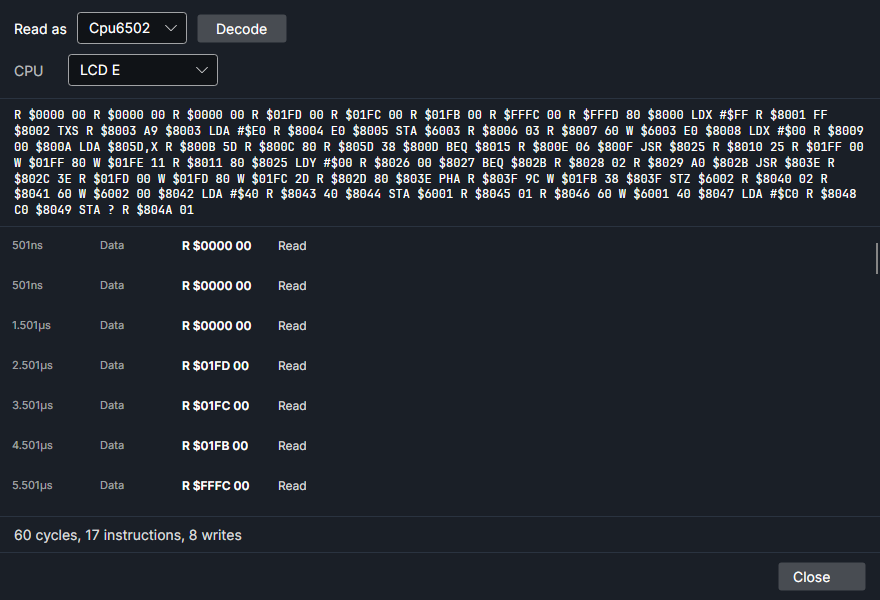
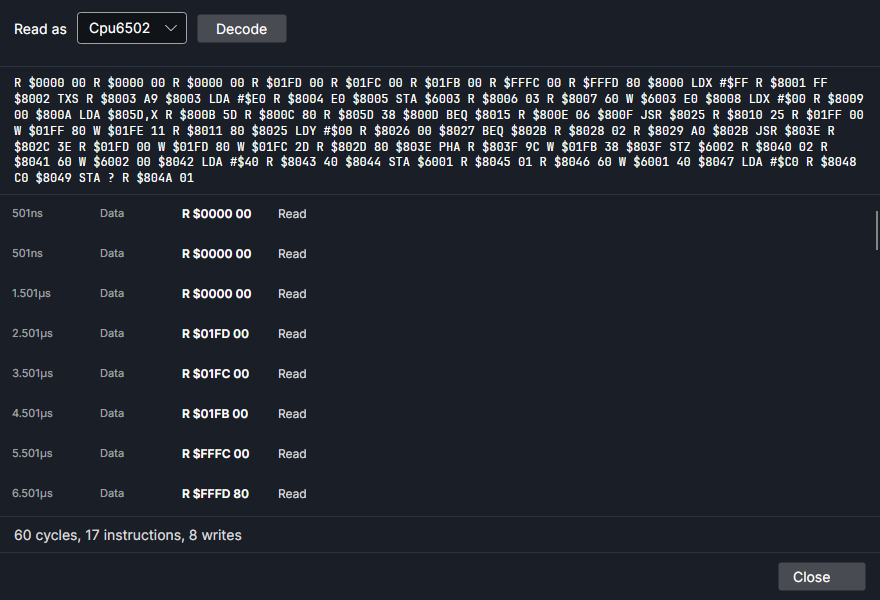
Hide the bus decode's CPU picker when the circuit has one processor
It fell back to the first probe, so the window said "CPU: LCD E" while
decoding the only 6502 there was.

diff --git a/src/Cirq.UI/ViewModels/BusDecodeViewModel.cs b/src/Cirq.UI/ViewModels/BusDecodeViewModel.cs
@@ -126,6 +126,13 @@ public sealed partial class BusDecodeViewModel : ObservableObject
 
     public string LabelD => Protocol == BusProtocol.Spi ? "CS" : string.Empty;
 
+    /// <summary>
+    /// Channel A, except on a 6502 bus with only one processor in the circuit: the decode reads that
+    /// processor's own record, so a picker there would only show some unrelated probe.
+    /// </summary>
+    public bool UsesA => Protocol != BusProtocol.Cpu6502
+                         || _circuit.Components.OfType<Cirq.Components.Processors.Processor6502>().Count() > 1;
+
     public bool UsesB => LabelB.Length > 0;
 
     public bool UsesC => LabelC.Length > 0;
@@ -145,7 +152,7 @@ public sealed partial class BusDecodeViewModel : ObservableObject
         foreach (var name in new[]
                  {
                      nameof(LabelA), nameof(LabelB), nameof(LabelC), nameof(LabelD),
-                     nameof(UsesB), nameof(UsesC), nameof(UsesD),
+                     nameof(UsesA), nameof(UsesB), nameof(UsesC), nameof(UsesD),
                      nameof(NeedsBitRate), nameof(NeedsMode),
                  })
         {

diff --git a/tests/Cirq.UI.Tests/ComputerExampleTests.cs b/tests/Cirq.UI.Tests/ComputerExampleTests.cs
@@ -69,6 +69,22 @@ public class ComputerExampleTests
     }
 
     /// <summary>
+    /// With one processor the decode reads its record whatever channel A says, so the window hides
+    /// that picker rather than show an unrelated probe (the LCD's E line) under the word CPU.
+    /// </summary>
+    [Fact]
+    public void OneProcessorNeedsNoProcessorPicker()
+    {
+        using var vm = Run("Ben Eater 6502 Computer", 1e-6);
+
+        var decode = new BusDecodeViewModel(vm.Circuit);
+        Assert.False(decode.UsesA);
+
+        decode.Protocol = BusProtocol.Uart;
+        Assert.True(decode.UsesA);
+    }
+
+    /// <summary>
     /// Each example's ROM holds the program the guide prints, assembled — so the source a reader is
     /// shown is the program that runs, and the reset vector points at it.
     /// </summary>

diff --git a/docs/USER_GUIDE.md b/docs/USER_GUIDE.md
@@ -5693,7 +5693,8 @@ Press Run and "Hello, world!" appears after about 3.3 ms of simulated time. Hove
 processor to see where it is — its value is the address of the instruction it is executing — or
 **Simulate > Decode Bus...**, which offers a **Cpu6502** decode: every cycle as an address, a byte and
 a direction, with the instruction disassembled on each opcode fetch. The processor records the
-cycles itself, the last 65,536 of them, so no probes are needed:
+cycles itself, the last 65,536 of them, so no probes are needed. With two processors in the
+circuit, a **CPU** picker chooses which one by a probe on it:
 
 ```
 $8000 LDX #$FF   R $8001 FF   $8002 TXS   R $8003 A9   $8003 LDA #$E0   R $8004 E0
